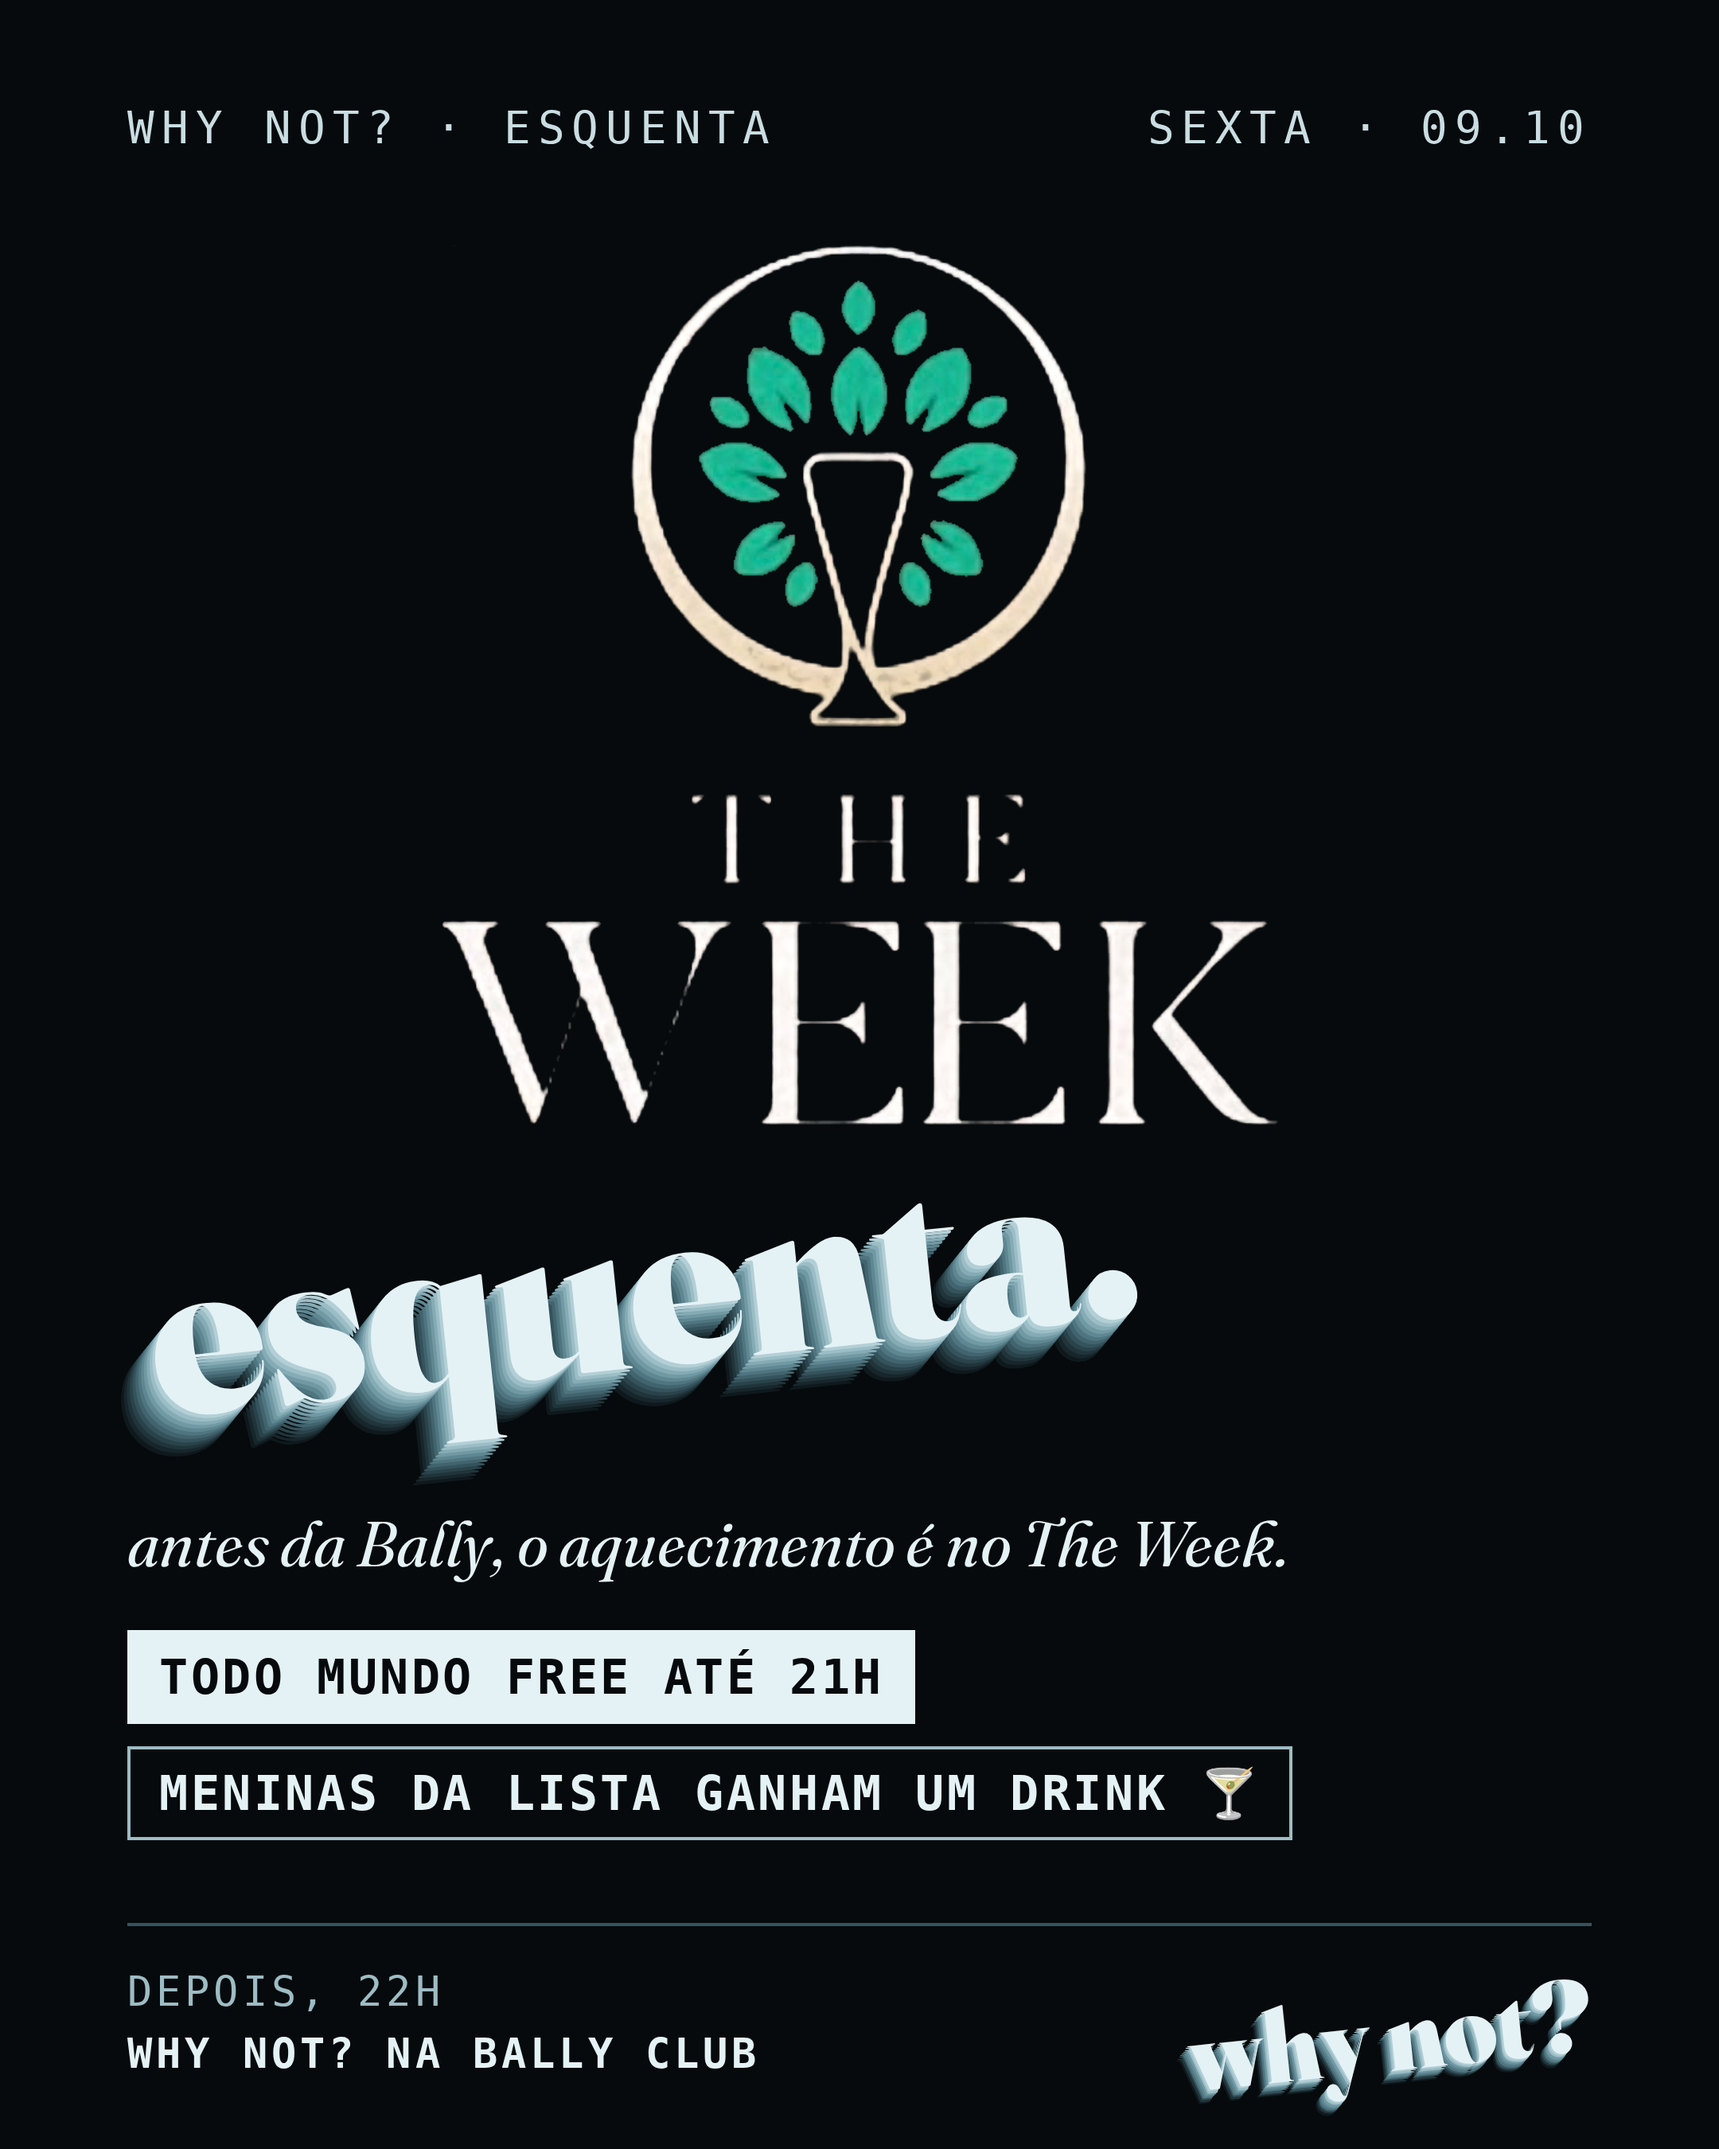
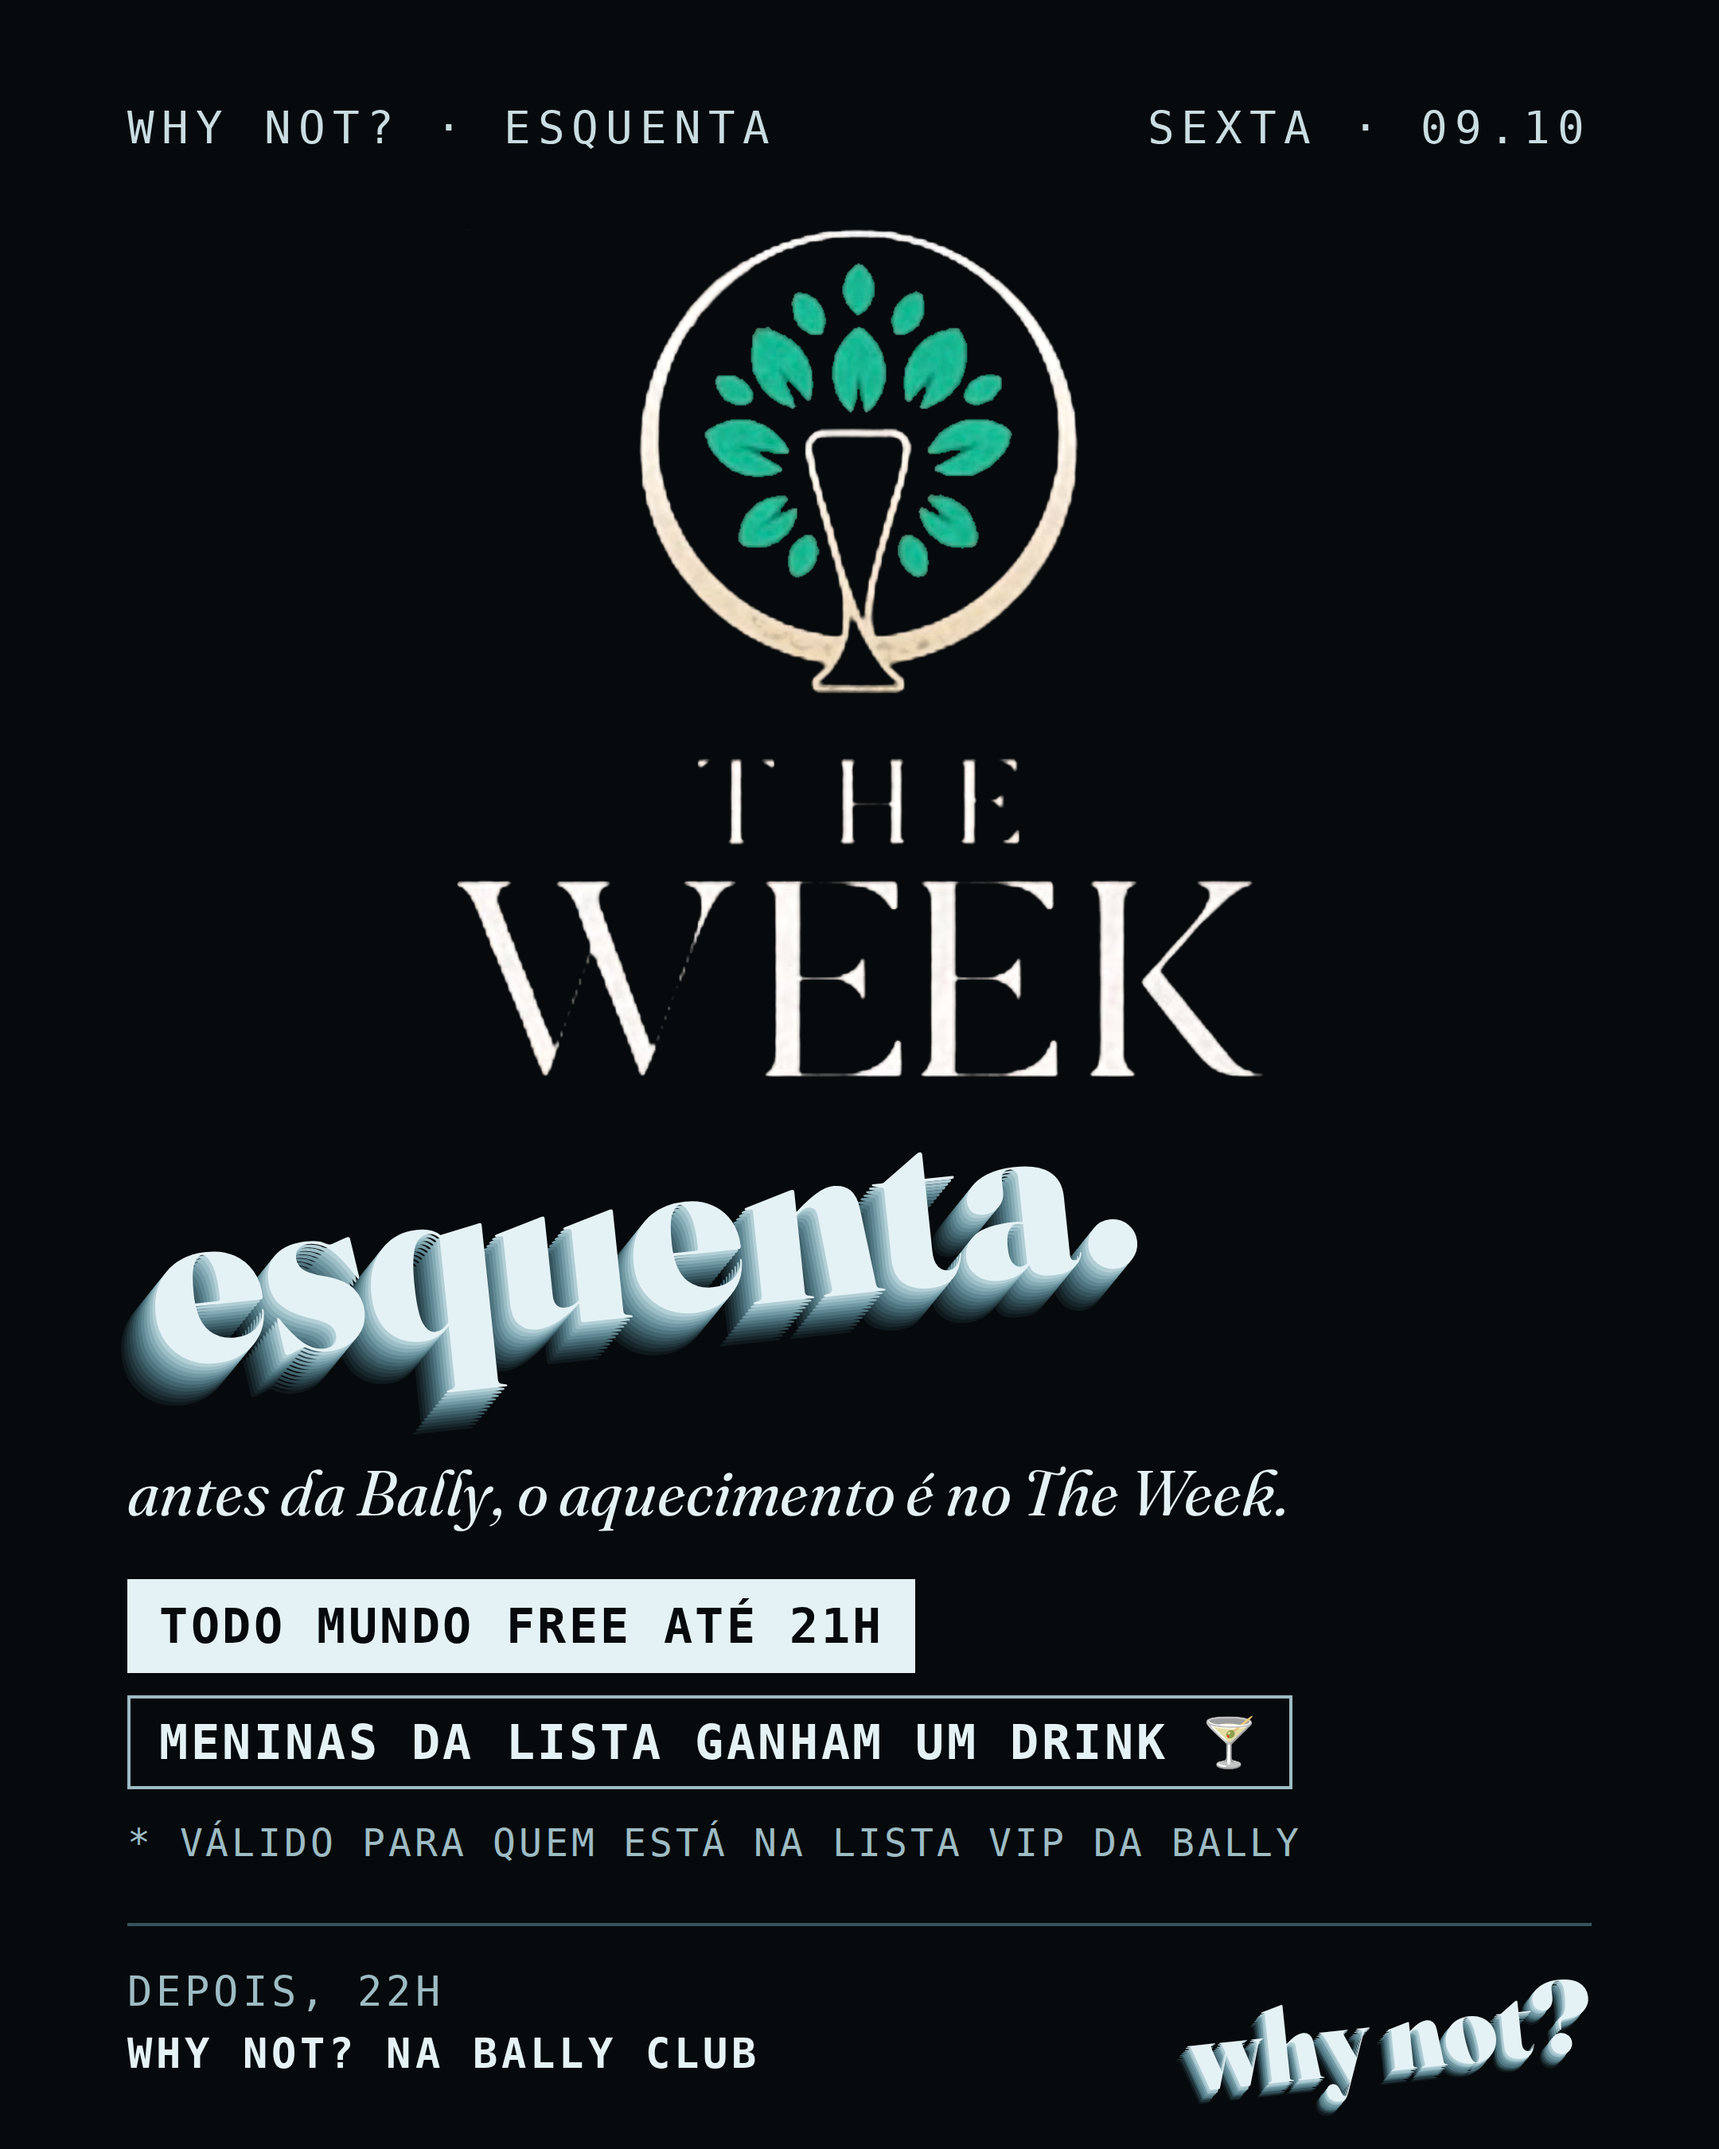
Esquenta: versão story e aviso 'válido para quem está na lista VIP da Bally'
Claude-Session: https://claude.ai/code/session_01EB6L4Lkud6PcZEDw1BW6Na

Changed region(s): [[0.062, 0.0933, 0.7444, 0.8711], [0.2481, 0.4044, 0.4032, 0.5289]]

diff --git a/identidade/ferramentas/esquenta_story.py b/identidade/ferramentas/esquenta_story.py
@@ -9,11 +9,11 @@ H=f"""<html><head><meta charset=utf-8><style>
 @font-face{{font-family:F;font-style:italic;font-weight:400;src:url('{FD}Fraunces72pt-Italic.ttf')}}
 @font-face{{font-family:M;font-weight:400;src:url('file:///usr/share/fonts/truetype/dejavu/DejaVuSansMono.ttf')}}
 @font-face{{font-family:M;font-weight:700;src:url('file:///usr/share/fonts/truetype/dejavu/DejaVuSansMono-Bold.ttf')}}
-body{{margin:0}} .w{{width:1080px;height:1350px;position:relative;overflow:hidden;background:#060a0c;color:#e4f2f6;font-family:M}}
+body{{margin:0}} .w{{width:1080px;height:1920px;position:relative;overflow:hidden;background:#060a0c;color:#e4f2f6;font-family:M}}
 </style></head><body><div class=w>
-<img src="file://{D}/tw/tw_logo.png" style="position:absolute;left:50%;transform:translateX(-50%);top:140px;height:540px">
-<div style="position:absolute;left:80px;right:80px;top:64px;display:flex;justify-content:space-between;font-size:28px;letter-spacing:.16em;color:#c9dde2"><span>WHY NOT? · ESQUENTA</span><span>SEXTA · 09.10</span></div>
-<div style="position:absolute;left:80px;right:80px;top:740px">
+<img src="file://{D}/tw/tw_logo.png" style="position:absolute;left:50%;transform:translateX(-50%);top:360px;height:600px">
+<div style="position:absolute;left:80px;right:80px;top:250px;display:flex;justify-content:space-between;font-size:28px;letter-spacing:.16em;color:#c9dde2"><span>WHY NOT? · ESQUENTA</span><span>SEXTA · 09.10</span></div>
+<div style="position:absolute;left:80px;right:80px;top:1040px">
 <div style="font:900 150px/0.86 F;{EXT};transform:rotate(-6deg);transform-origin:left center;white-space:nowrap;margin-left:14px">esquenta.</div>
 <div style="margin-top:44px;font:italic 40px F">antes da Bally, o aquecimento é no The Week.</div>
 <div style="margin-top:30px;display:flex;flex-direction:column;gap:14px">
@@ -22,16 +22,16 @@ body{{margin:0}} .w{{width:1080px;height:1350px;position:relative;overflow:hidde
 </div>
 <div style="margin-top:20px;font-size:24px;letter-spacing:.1em;color:#9dbcc4">* VÁLIDO PARA QUEM ESTÁ NA LISTA VIP DA BALLY</div>
 </div>
-<div style="position:absolute;left:80px;right:80px;bottom:40px;display:flex;justify-content:space-between;align-items:flex-end;padding-top:22px;border-top:2px solid #35535c">
+<div style="position:absolute;left:80px;right:80px;bottom:250px;display:flex;justify-content:space-between;align-items:flex-end;padding-top:22px;border-top:2px solid #35535c">
 <span style="font-size:26px;letter-spacing:.08em;color:#9dbcc4;line-height:1.5">DEPOIS, 22H<br><b style="color:#e4f2f6">WHY NOT? NA BALLY CLUB</b></span>
 <span style="font:900 64px/1 F;{EXTM};transform:rotate(-6deg);white-space:nowrap">why not?</span></div>
 </div></body></html>"""
 async def m():
     async with async_playwright() as p:
         b=await p.chromium.launch()
-        for s,n in ((1,'esq1.png'),(2,'whats-esquenta-the-week-HD.png')):
-            pg=await b.new_page(viewport={'width':1080,'height':1350},device_scale_factor=s)
-            open(D+'/tw/e.html','w').write(H); await pg.goto('file://'+D+'/tw/e.html'); await pg.wait_for_timeout(500)
+        for s,n in ((1,'esqs1.png'),(2,'story-esquenta-the-week-HD.png')):
+            pg=await b.new_page(viewport={'width':1080,'height':1920},device_scale_factor=s)
+            open(D+'/tw/es.html','w').write(H); await pg.goto('file://'+D+'/tw/es.html'); await pg.wait_for_timeout(500)
             await pg.screenshot(path=D+'/tw/'+n)
         await b.close()
 asyncio.run(m())
